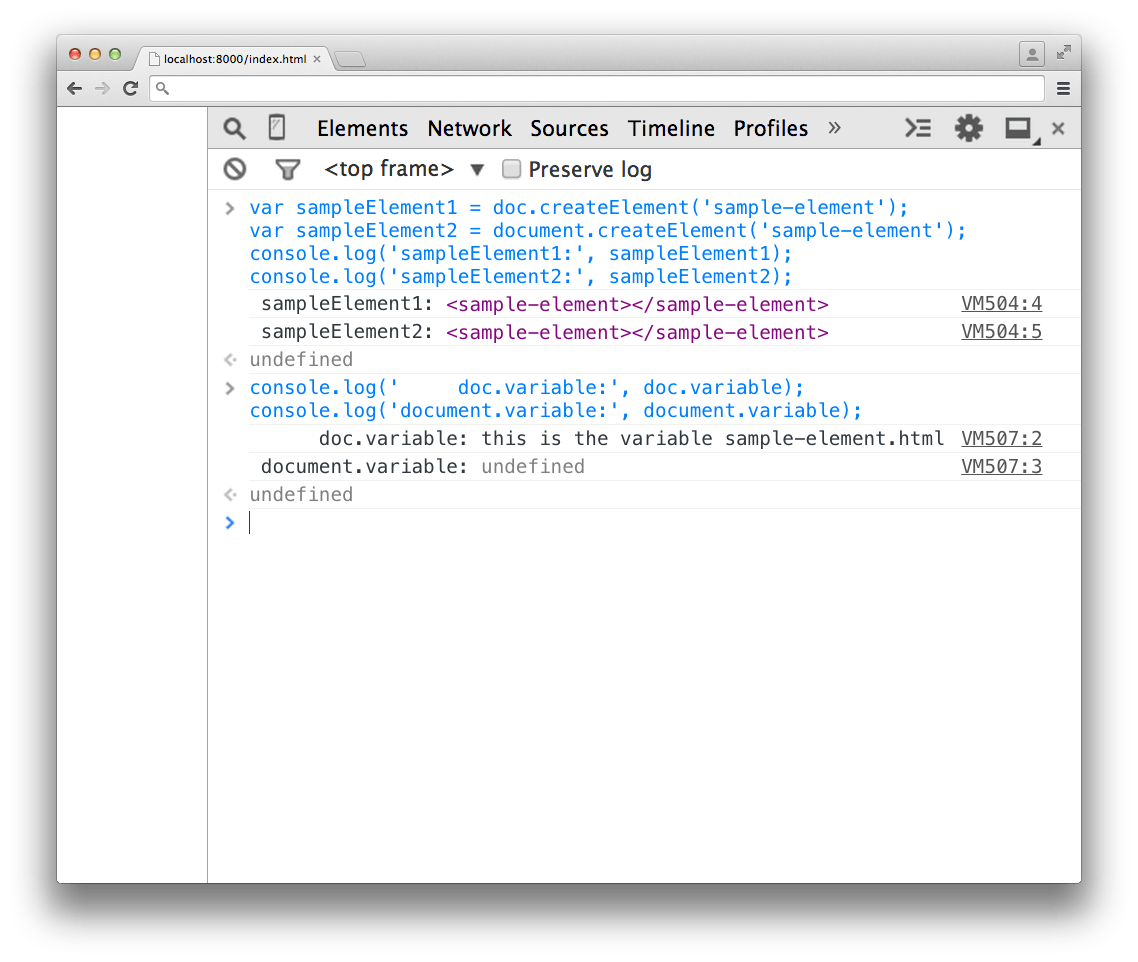
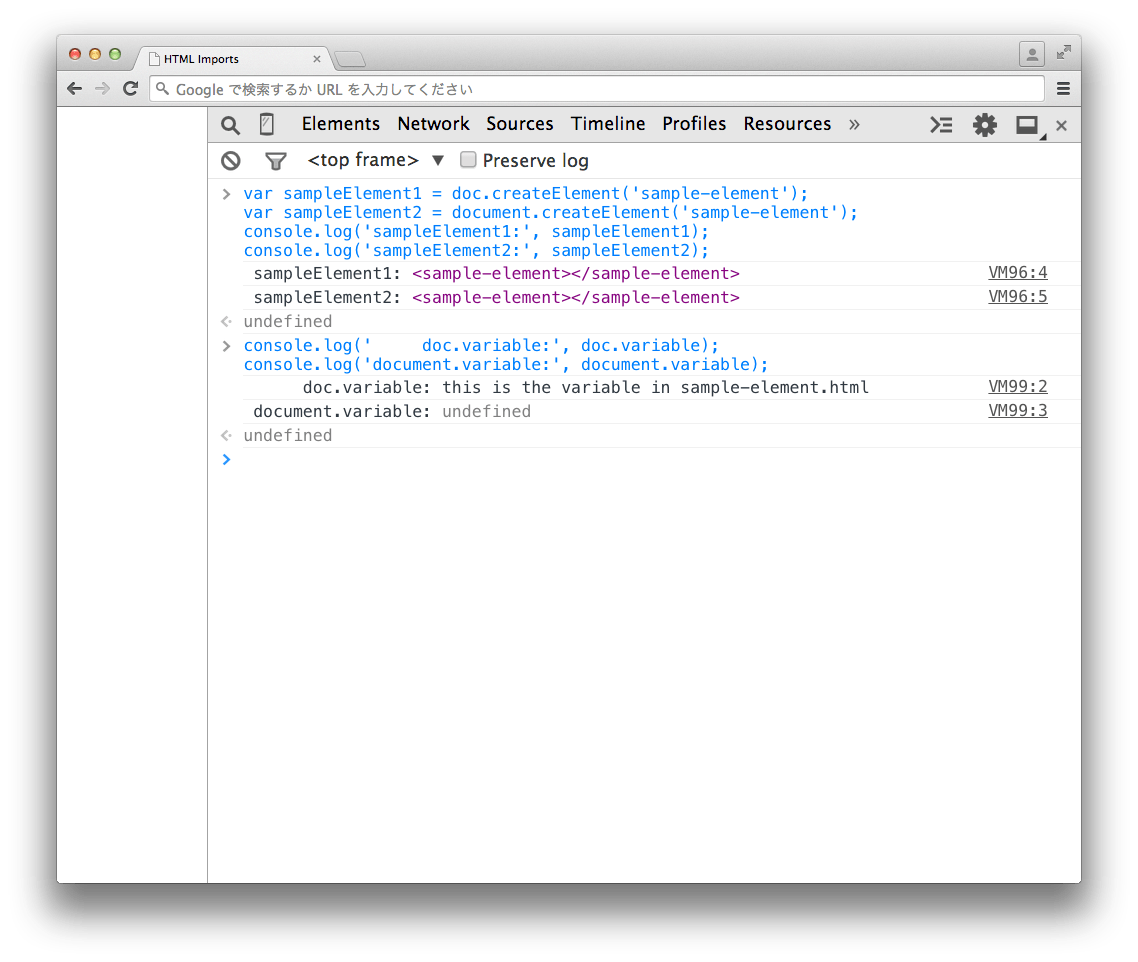
add post

Changed region(s): [[0.1538, 0.0312, 0.9534, 0.5301]]

diff --git a/src/documents/posts/2014/content-to-import-with-html-imports.html.md b/src/documents/posts/2014/content-to-import-with-html-imports.html.md
@@ -1,0 +1,90 @@
+---
+layout: post
+title: HTML Importsでインポート先に引き継がれる内容
+date: 2014-10-07
+description: .registerElement()するdocumentはどれでも良いのかどうか。
+---
+
+# HTML Importsでインポート先に引き継がれる内容
+
+> https://github.com/pazguille/github-card/blob/master/webcomponent/github-card.html
+> これってなんで`doc.registerElement`になってるんだろう・・
+
+っていう質問をされたので調べたメモ。内容的には[HTML ImportsするHTMLのコンテキストになるdocument](http://1000ch.net/posts/2014/html-imports-context.html)の続きにあたるかも。
+
+## registerElementの実行者とカスタム要素の登録先
+
+以下の様なカスタム要素を作成し、ロードする場合を考える。
+
+### `sample-element.html`
+
+```html
+<script>
+  var doc = document.currentScript.ownerDocument;
+  doc.variable = 'this is the variable in sample-element.html';
+  window.SampleElement = document.registerElement('sample-element', {
+    prototype: Object.create(HTMLElement.prototype)
+  });
+</script>
+```
+
+### `loader.html`
+
+```html
+<html>
+  <head>
+    <meta charset="utf-8">
+    <link rel="import" href="sample-element.html">
+  </head>
+  <body>
+    <sample-element>Sample</sample-element>
+  </body>
+</html>
+```
+
+`document.currentScript.ownerDocument`を`doc`にキャッシュしないと、`sample-element.html`内に書いた要素を取得する時に困る話は前述のエントリでしてある。
+`document.registerElement('sample-element', {});`しているのは、`sample-element.html`をインポートするHTMLの`document`になる。
+
+でも`<github-card>`ではこの例で言うところの`sample-element.html`の`document`で`registerElement()`を実行している。
+感覚的に言えばインポートする側の`document`で登録を実行するほうがしっくりくるんだけどそうでもないんだろうか。
+
+## HTMLImportsでインポートされる内容
+
+感覚の話はさておき、HTMLImportsで何がインポートされるのかを見てみる。`<github-card>`を見る限り、`registerElement()`したカスタム要素は引き継がれるよう。
+`sample-element.html`でわざとらしく宣言した`variable`という変数も見てみる。引き継がれないだろうけど、一応。
+
+<img src='/img/posts/content-to-import-with-html-imports/console.png'>
+
+当然のごとく`variable`は`doc`にしかない。が、`document.createElement('sample-element')`は両方とも成功している。
+
+Firefox Nightly 35.0a1でも試してみた。
+
+<img src='/img/posts/content-to-import-with-html-imports/scratchpad.png'>
+
+インポートしている`sample-element.html`内で宣言している`doc`が`undefined`になってしまっているんだけど、`doc`に登録している`<sample-element>`はちゃんとインポート先の`document`に登録されていた。
+
+## HTML ImportsとCustom Elementsの仕様を見てみる
+
+- http://www.w3.org/TR/html-imports/#loading-imports
+
+<img src='http://www.w3.org/TR/html-imports/import-link-list.png'>
+
+HTML Importはこんな感じでlink関係をツリー上に持つらしい。で、このHTML Importsのツリーは
+
+>The import tree order of a given custom element of an import tree is determined by tree order in an import tree that was flattened by replacing every import link with the content of its imported document.
+
+インポートしてくるドキュメントでリプレイスされ、ドキュメント達は構造上並列になる（と書いてあるように見える）。
+
+- http://w3c.github.io/webcomponents/spec/custom/#dfn-element-registration
+
+>Element registration is a process of adding an element definition to a registry. One element definition can only be registered with one registry.
+
+ひとつのドキュメントにつき、ひとつのレジストリが存在し、要素の定義はそのレジストリに定義される。
+
+- http://w3c.github.io/webcomponents/spec/custom/#creating-and-passing-registries
+
+色々読み漁ったけど、英語力足りなすぎて直接言及している場所がどこかわからなかった。かろうじて、
+
+>When creating an import, use the registry of the master document.
+
+が、HTML Importが発生した時点でインポート先のドキュメントにマージされることを意味しているような気もする。詳しい人おしえて下さい。
